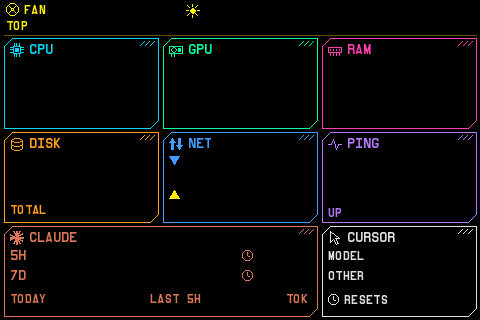
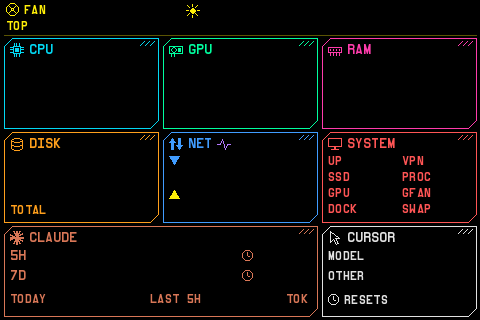
Move ping into NET panel and add SYSTEM panel to Cyberpunk-landscape theme
New custom sensors: short uptime, VPN status, SSD temperature, process count,
Nvidia GPU power and fan, running Docker containers, swap usage.

Changed region(s): [[0.6562, 0.4062, 0.8438, 0.6875], [0.8125, 0.4688, 0.9062, 0.6875], [0.9375, 0.4062, 1.0, 0.4375]]

diff --git a/library/sensors/sensors_custom.py b/library/sensors/sensors_custom.py
@@ -440,3 +440,98 @@ class TopProcess(_SimpleData):
             if percent > usage:
                 name, usage = process.info["name"] or "", percent
         return f"{name[:11]:<11} {min(usage, 9999):>4.0f}%"
+
+
+# --- Misc. system sensors: every value is a fixed-width (5 chars) text, '--' when not available on this computer ---
+import shutil
+import subprocess
+
+
+def _format_value(value, unit: str = "") -> str:
+    if value is None or (isinstance(value, float) and math.isnan(value)):
+        return f"{'--':>5}"
+    text = f"{value:.0f}{unit}" if isinstance(value, (int, float)) else f"{value}{unit}"
+    return f"{text:>5}"
+
+
+class _Cached:
+    # Small cache to avoid reading the same slow data source (e.g. a command) at every refresh
+    _store = {}
+
+    @classmethod
+    def get(cls, key: str, ttl: float, reader):
+        cached = cls._store.get(key)
+        if cached is None or time.time() - cached[0] >= ttl:
+            try:
+                value = reader()
+            except Exception:
+                value = None
+            cached = (time.time(), value)
+            cls._store[key] = cached
+        return cached[1]
+
+
+def _run(command: List[str]) -> str:
+    if shutil.which(command[0]) is None:
+        raise FileNotFoundError(command[0])
+    return subprocess.run(command, capture_output=True, text=True, timeout=3, check=True).stdout
+
+
+def _nvidia_gpu():
+    # (power draw in W, fan speed in %) of the first Nvidia GPU
+    fields = _run(["nvidia-smi", "--query-gpu=power.draw,fan.speed", "--format=csv,noheader,nounits"])
+    power, fan = fields.splitlines()[0].split(",")
+    return float(power), float(fan)
+
+
+class UptimeShort(_SimpleData):
+    # Time since boot: days + hours, or hours + minutes if less than a day
+    def as_string(self) -> str:
+        import psutil
+        return _format_countdown(2 * time.time() - psutil.boot_time())
+
+
+class VpnStatus(_SimpleData):
+    # ON if a VPN / tunnel network interface is up
+    def as_string(self) -> str:
+        import psutil
+        stats = psutil.net_if_stats()
+        active = any(name.lower().startswith(("ppp", "tun", "tap", "wg")) and stat.isup for name, stat in stats.items())
+        return _format_value("ON" if active else "OFF")
+
+
+class SsdTemperature(_SimpleData):
+    def as_string(self) -> str:
+        import psutil
+        sensors = getattr(psutil, "sensors_temperatures", lambda: {})().get("nvme") or []
+        return _format_value(sensors[0].current if sensors else None, "°C")
+
+
+class ProcessCount(_SimpleData):
+    def as_string(self) -> str:
+        import psutil
+        return _format_value(len(psutil.pids()))
+
+
+class GpuPower(_SimpleData):
+    def as_string(self) -> str:
+        gpu = _Cached.get("nvidia", 4, _nvidia_gpu)
+        return _format_value(gpu[0] if gpu else None, "W")
+
+
+class GpuFan(_SimpleData):
+    def as_string(self) -> str:
+        gpu = _Cached.get("nvidia", 4, _nvidia_gpu)
+        return _format_value(gpu[1] if gpu else None, "%")
+
+
+class DockerContainers(_SimpleData):
+    # Number of running Docker containers
+    def as_string(self) -> str:
+        return _format_value(_Cached.get("docker", 30, lambda: len(_run(["docker", "ps", "-q"]).split())))
+
+
+class SwapPercent(_SimpleData):
+    def as_string(self) -> str:
+        import psutil
+        return _format_value(psutil.swap_memory().percent, "%")

diff --git a/res/themes/Cyberpunk-landscape/make_background.py b/res/themes/Cyberpunk-landscape/make_background.py
@@ -12,6 +12,7 @@ RAM = (255, 60, 172)
 DISK = (255, 159, 28)
 NET = (64, 156, 255)
 PING = (180, 120, 255)
+SYS = (255, 85, 85)
 CLAUDE = (217, 119, 87)
 CURSOR = (225, 225, 225)
 DIM = (90, 84, 3)
@@ -75,6 +76,10 @@ def icon(name, x, y, col=Y):
     elif name == 'clock':
         d.ellipse([x, y, x + 10, y + 10], outline=col)
         d.line([(x + 5, y + 2), (x + 5, y + 5), (x + 7, y + 6)], fill=col)
+    elif name == 'sys':
+        d.rectangle([x, y + 1, x + 13, y + 9], outline=col)
+        d.line([(x + 6, y + 10), (x + 6, y + 12)], fill=col); d.line([(x + 7, y + 10), (x + 7, y + 12)], fill=col)
+        d.line([(x + 3, y + 12), (x + 10, y + 12)], fill=col)
     elif name == 'fan':
         d.ellipse([x, y, x + 12, y + 12], outline=col)
         d.line([(x + 2, y + 2), (x + 10, y + 10)], fill=col); d.line([(x + 10, y + 2), (x + 2, y + 10)], fill=col)
@@ -94,7 +99,7 @@ COLS = (4, 163, 322)
 ROWS = (38, 132, 226)
 W, H = 154, 90
 cells = (('cpu', 'CPU', CPU), ('gpu', 'GPU', GPU), ('ram', 'RAM', RAM),
-         ('disk', 'DISK', DISK), ('net', 'NET', NET), ('ping', 'PING', PING))
+         ('disk', 'DISK', DISK), ('net', 'NET', NET), ('sys', 'SYSTEM', SYS))
 for i, (ic, text, col) in enumerate(cells):
     x, y = COLS[i % 3], ROWS[i // 3]
     panel(x, y, W, H, col)
@@ -112,9 +117,12 @@ d.text((x + 6, y + 73), 'TOTAL', font=f11, fill=DISK)
 x, y = COLS[1], ROWS[1]
 icon('down', x + 6, y + 24, NET)
 icon('up', x + 6, y + 58, Y)
-# Ping / uptime
+icon('ping', x + 54, y + 5, PING)
+# System
 x, y = COLS[2], ROWS[1]
-d.text((x + 6, y + 76), 'UP', font=f11, fill=PING)
+for row, (left, right) in enumerate((('UP', 'VPN'), ('SSD', 'PROC'), ('GPU', 'GFAN'), ('DOCK', 'SWAP'))):
+    d.text((x + 6, y + 24 + row * 16), left, font=f11, fill=SYS)
+    d.text((x + 80, y + 24 + row * 16), right, font=f11, fill=SYS)
 # Claude (2 columns wide)
 x, y = COLS[0], ROWS[2]
 panel(x, y, 313, H, CLAUDE)
